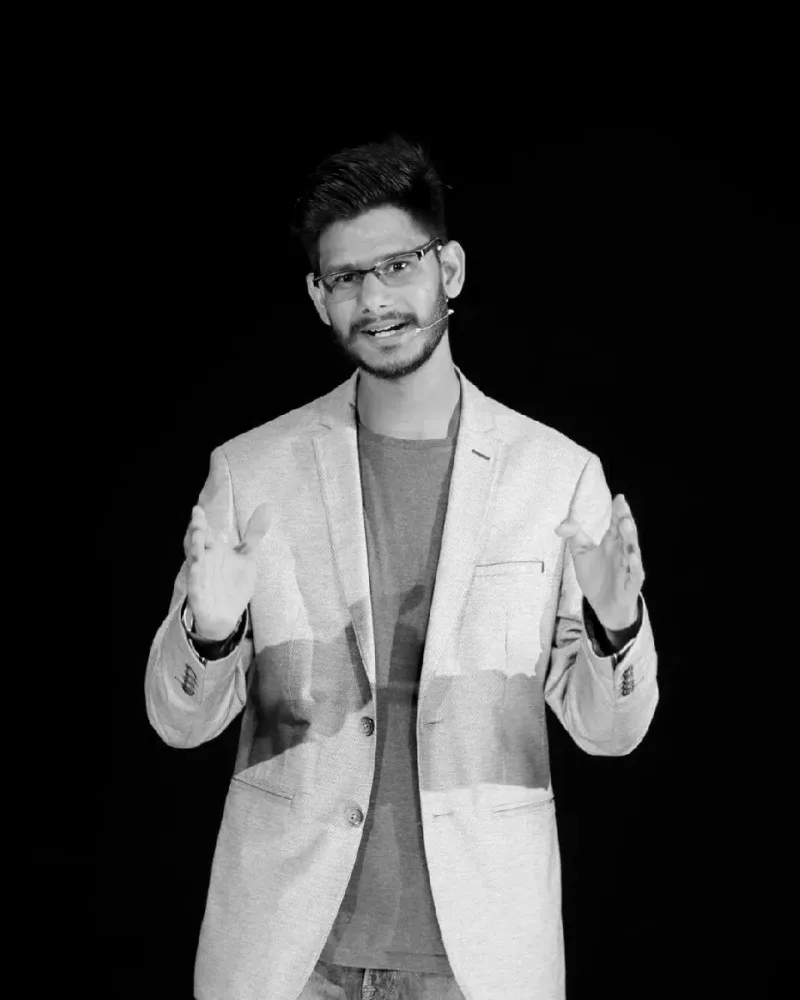
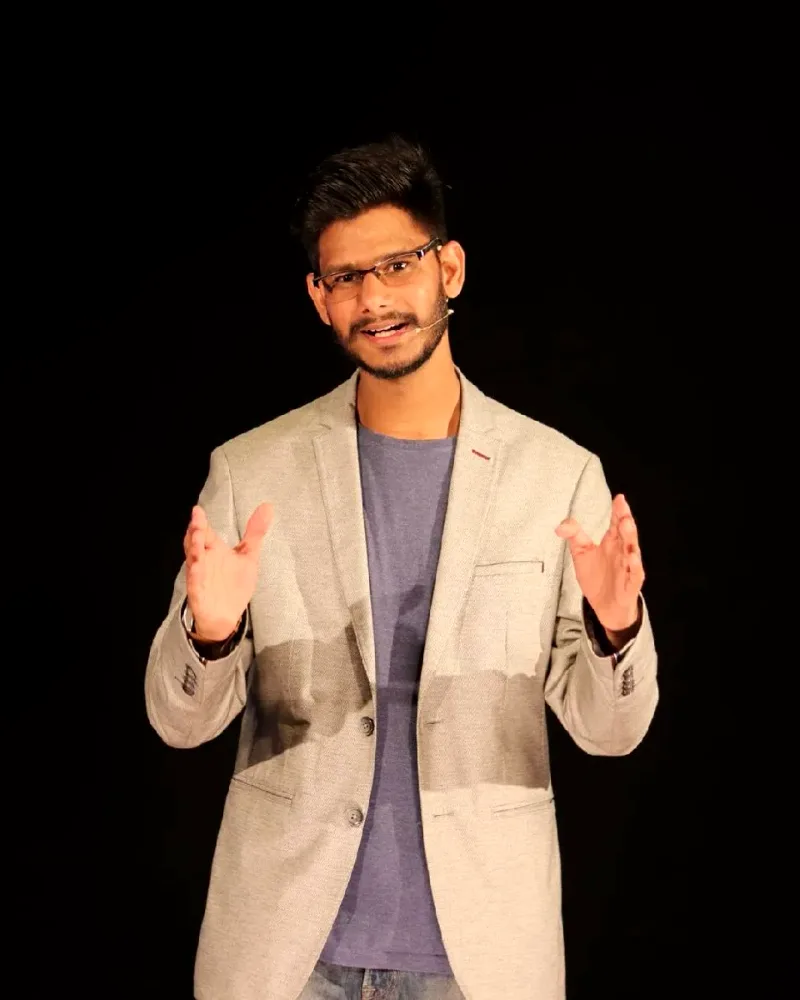
Count the figures up from zero, and let the journey card at centre carry colour
Two things that looked like effects but were not running.

The counters were already springing from 0 to their value; what stopped them
was their own safety net. It armed on `start`, which is simply true from mount
for most callers, and fired ~2.2s later - long before a band below the fold had
ever been scrolled to. By the time you reached one, the net had stamped the
finished figure and there was nothing left to count. It is a net for an
observer that never reports, so it now waits on `isInView` like the count
does. The count also runs slower: a duration that feels brisk on one number
reads as a flicker across six.

The journey photographs could not do this at all: the grade was baked in by
scripts/build-journey-images.mjs, and a grayscale webp has no colour to
restore. The six frames in the stack ship in colour now and are graded at
runtime instead, on the same scroll windows the card's entry and exit already
use - so a step arrives in colour as it reaches centre and drains as it flips
away, and the pile either side of it stays one monochrome set. The last card
holds its colour rather than draining on a flip that never comes, and reduced
motion keeps every frame in colour rather than tying saturation to scroll.

02-agencies.webp keeps its baked grade: it is not in the stack at all, and the
reach section wants the flat plate.

Changed region(s): [[0.1562, 0.186, 0.8438, 1.0], [0.4375, 0.992, 0.4688, 1.0]]

diff --git a/src/components/ui/case-study-flip-stack.tsx b/src/components/ui/case-study-flip-stack.tsx
@@ -228,6 +228,28 @@ function FlipCard({
 			? [item.background, item.background]
 			: [prevBackground, item.background],
 	);
+	/**
+	 * The photograph is grey until this step is the one you are reading, and
+	 * greys out again as it leaves - so colour marks the card at centre, and
+	 * the pile above and below it stays a single monochrome set.
+	 *
+	 * That grade used to be baked into the files by scripts/build-journey-images.mjs,
+	 * which made this impossible: there is nothing to restore in a grayscale
+	 * webp. The six frames in the stack ship in colour now and are graded here
+	 * instead, on the same windows the entry and exit already use, so the
+	 * colour arrives with the card rather than on a timer of its own.
+	 *
+	 * The last card holds rather than exiting (`holds`), so it keeps its
+	 * colour rather than draining on a flip that never comes. Under reduced
+	 * motion nothing is scroll-linked at all and every frame simply stays in
+	 * colour.
+	 */
+	const grayscale = useTransform(
+		progress,
+		[entryStart, entryEnd, exitStart, exitEnd],
+		reduceMotion ? [0, 0, 0, 0] : holds ? [1, 0, 0, 0] : [1, 0, 0, 1],
+	);
+	const imageFilter = useMotionTemplate`grayscale(${grayscale})`;
 
 	return (
 		<motion.article
@@ -302,12 +324,13 @@ function FlipCard({
 				</div>
 
 				<div className="relative m-[clamp(10px,1.2vw,18px)] min-h-[140px] overflow-hidden rounded-[clamp(12px,1.4vw,22px)] sm:ml-0 sm:min-h-[180px]">
-					<img
+					<motion.img
 						src={item.image}
 						alt={item.imageAlt}
 						className="h-full w-full object-cover"
 						loading={index < 2 ? "eager" : "lazy"}
 						draggable={false}
+						style={{ filter: imageFilter }}
 					/>
 					<div className="pointer-events-none absolute inset-0 bg-gradient-to-tr from-black/20 via-transparent to-white/10" />
 				</div>

diff --git a/src/components/ui/stat-index.tsx b/src/components/ui/stat-index.tsx
@@ -34,6 +34,14 @@ export interface StatEntry {
 	icon?: React.ComponentType<{ className?: string }>;
 }
 
+/**
+ * How long a figure takes to count up. Slower than it reads on paper: these
+ * sit in a row, and a count short enough to feel brisk on one number reads as
+ * a flicker across six of them. Long enough here that you can watch a figure
+ * climb rather than just catch it landing.
+ */
+const COUNT_SECONDS = 2.6;
+
 type Tone = "ink" | "signal";
 
 const TONE: Record<Tone, { rule: string; figure: string; label: string }> = {
@@ -100,7 +108,11 @@ export function StatIndex({
 							className="display-tight tnum text-[clamp(1.5rem,2.6vw,2.15rem)]"
 							style={{ color: t.figure }}
 						>
-							<StatsCounter value={value} duration={1.6} start={start} />
+							<StatsCounter
+								value={value}
+								duration={COUNT_SECONDS}
+								start={start}
+							/>
 							{suffix ? (
 								<span style={{ fontVariationSettings: "'wght' 500" }}>
 									{suffix}
@@ -136,7 +148,11 @@ export function StatIndex({
 						)}
 						style={{ color: t.figure }}
 					>
-						<StatsCounter value={value} duration={1.6} start={start} />
+						<StatsCounter
+							value={value}
+							duration={COUNT_SECONDS}
+							start={start}
+						/>
 						{suffix ? (
 							<span style={{ fontVariationSettings: "'wght' 500" }}>
 								{suffix}

diff --git a/src/components/ui/stats-counter.tsx b/src/components/ui/stats-counter.tsx
@@ -60,9 +60,14 @@ export default function StatsCounter({
 			setDisplayValue(value);
 			return;
 		}
-		// Only arm once the gate is open, or the safety net would fire during
-		// the wait and hand over the finished figure before the count begins.
-		if (!start) return;
+		// Armed on `isInView`, not on `start` alone. Keyed on the gate by itself
+		// this fired for every counter still far below the fold - `start` is
+		// simply true from mount for most callers - and stamped the finished
+		// figure in ~2s flat. By the time you scrolled down to a band there was
+		// nothing left to count: every number on the page was already sitting at
+		// its final value. It is a net for an observer that never reports, so it
+		// belongs behind the same condition that starts the count.
+		if (!isInView || !start) return;
 		const t = setTimeout(
 			() => {
 				setDisplayValue((shown) => (shown === 0 ? value : shown));
@@ -70,7 +75,7 @@ export default function StatsCounter({
 			(duration + 0.6) * 1000,
 		);
 		return () => clearTimeout(t);
-	}, [still, value, duration, start]);
+	}, [still, value, duration, start, isInView]);
 
 	useEffect(() => {
 		const unsubscribe = springValue.on("change", (latest) => {
